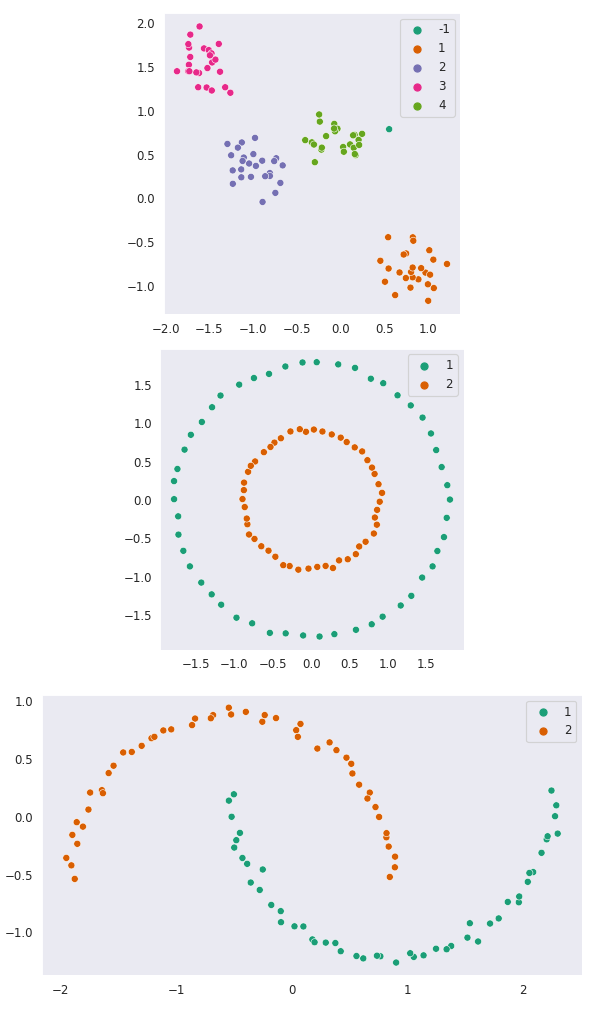
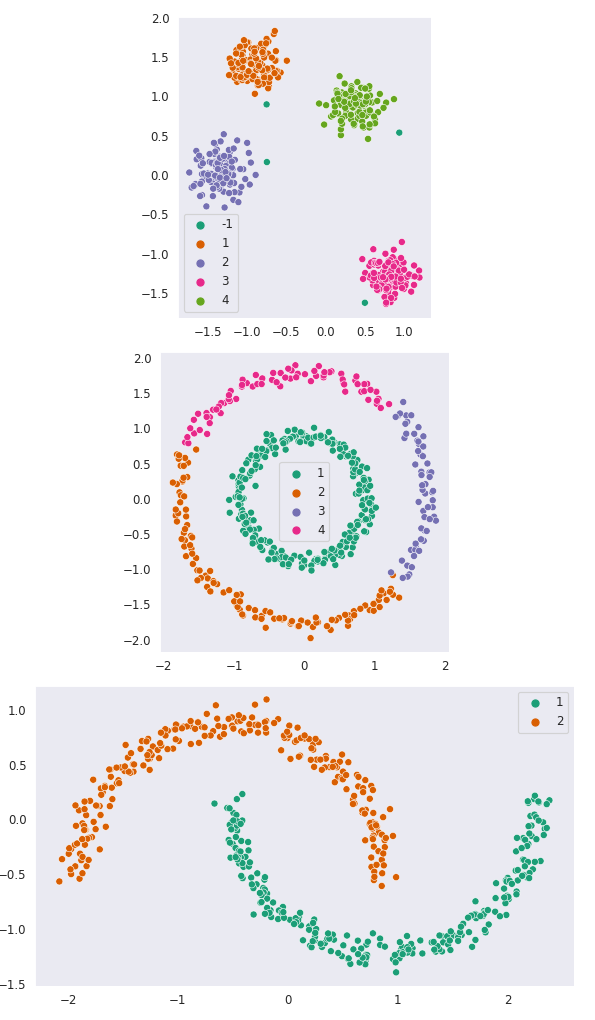
more points!

diff --git a/src/main.py b/src/main.py
@@ -1,6 +1,6 @@
 #!/usr/bin/env python3
 
-from numpy import append, arange, empty, full, int32, sqrt
+from numpy import append, arange, empty, full, int32, sqrt, unique
 
 
 class Dbscan:
@@ -42,7 +42,7 @@ class Dbscan:
                     labels[j] = cluster
                     neighbors = self.get_euclidean_neighbor_indices(j)
                     if self.min_size <= len(neighbors):
-                        new_seeds = append(new_seeds, neighbors)
+                        new_seeds = unique(append(new_seeds, neighbors))
                 seeds = new_seeds
         assert (labels != self.UNDEFINED).all()
         return labels
@@ -56,14 +56,15 @@ def main():
     from seaborn import scatterplot, set_style
     from sklearn.datasets import make_blobs, make_circles, make_moons
 
-    epsilon = 0.3
-    min_size = 3
+    epsilon = 0.2
+    min_size = 5
 
+    n = 500
     data = []
     for (i, (points, _)) in enumerate([
-        make_blobs(centers=4),
-        make_circles(factor=0.5, noise=0.01),
-        make_moons(noise=0.0275),
+        make_blobs(n, centers=4),
+        make_circles(n, factor=0.5, noise=0.0375),
+        make_moons(n, noise=0.05),
     ]):
         points = (points - points.mean()) / points.std()
         labels = Dbscan(points, epsilon, min_size).get_labels()
